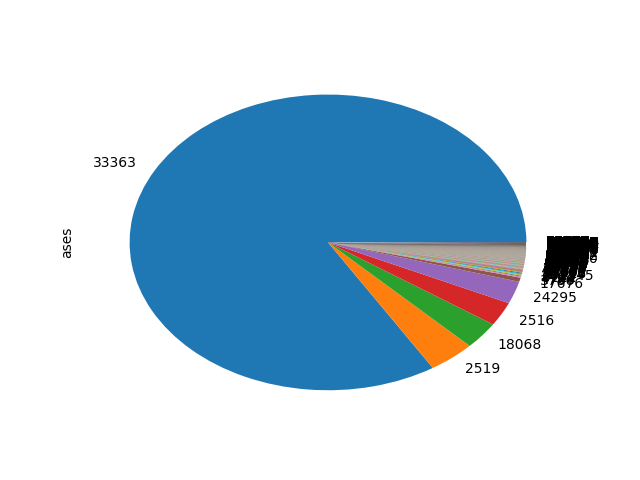
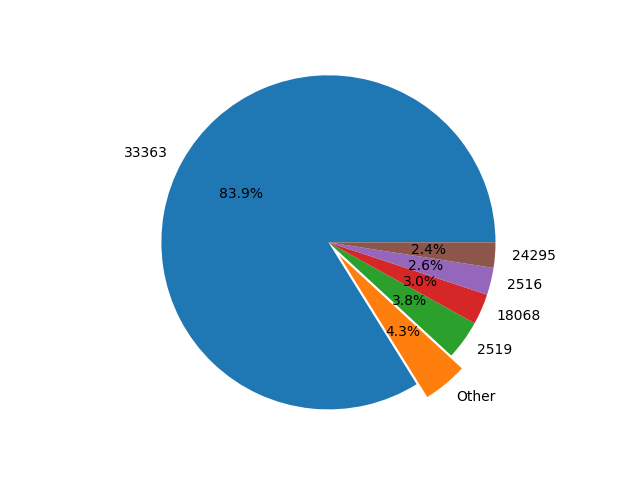
figs

diff --git a/sections/stats.tex b/sections/stats.tex
@@ -1,14 +1,9 @@
 \section{Descriptive statistics of vulnerable resources}
 \subsection{Country overview}
-\begin{figure}[!hbt]
-\centering
-\includegraphics[width=.8\columnwidth]{country_pie.png}
-\caption{Countries}
-\end{figure}
 
 \begin{figure}[!hbt]
 \centering
-\includegraphics[width=.8\columnwidth]{map.png}
+\includegraphics[width=1\columnwidth]{map.png}
 \caption{Countries}
 \end{figure}
 
